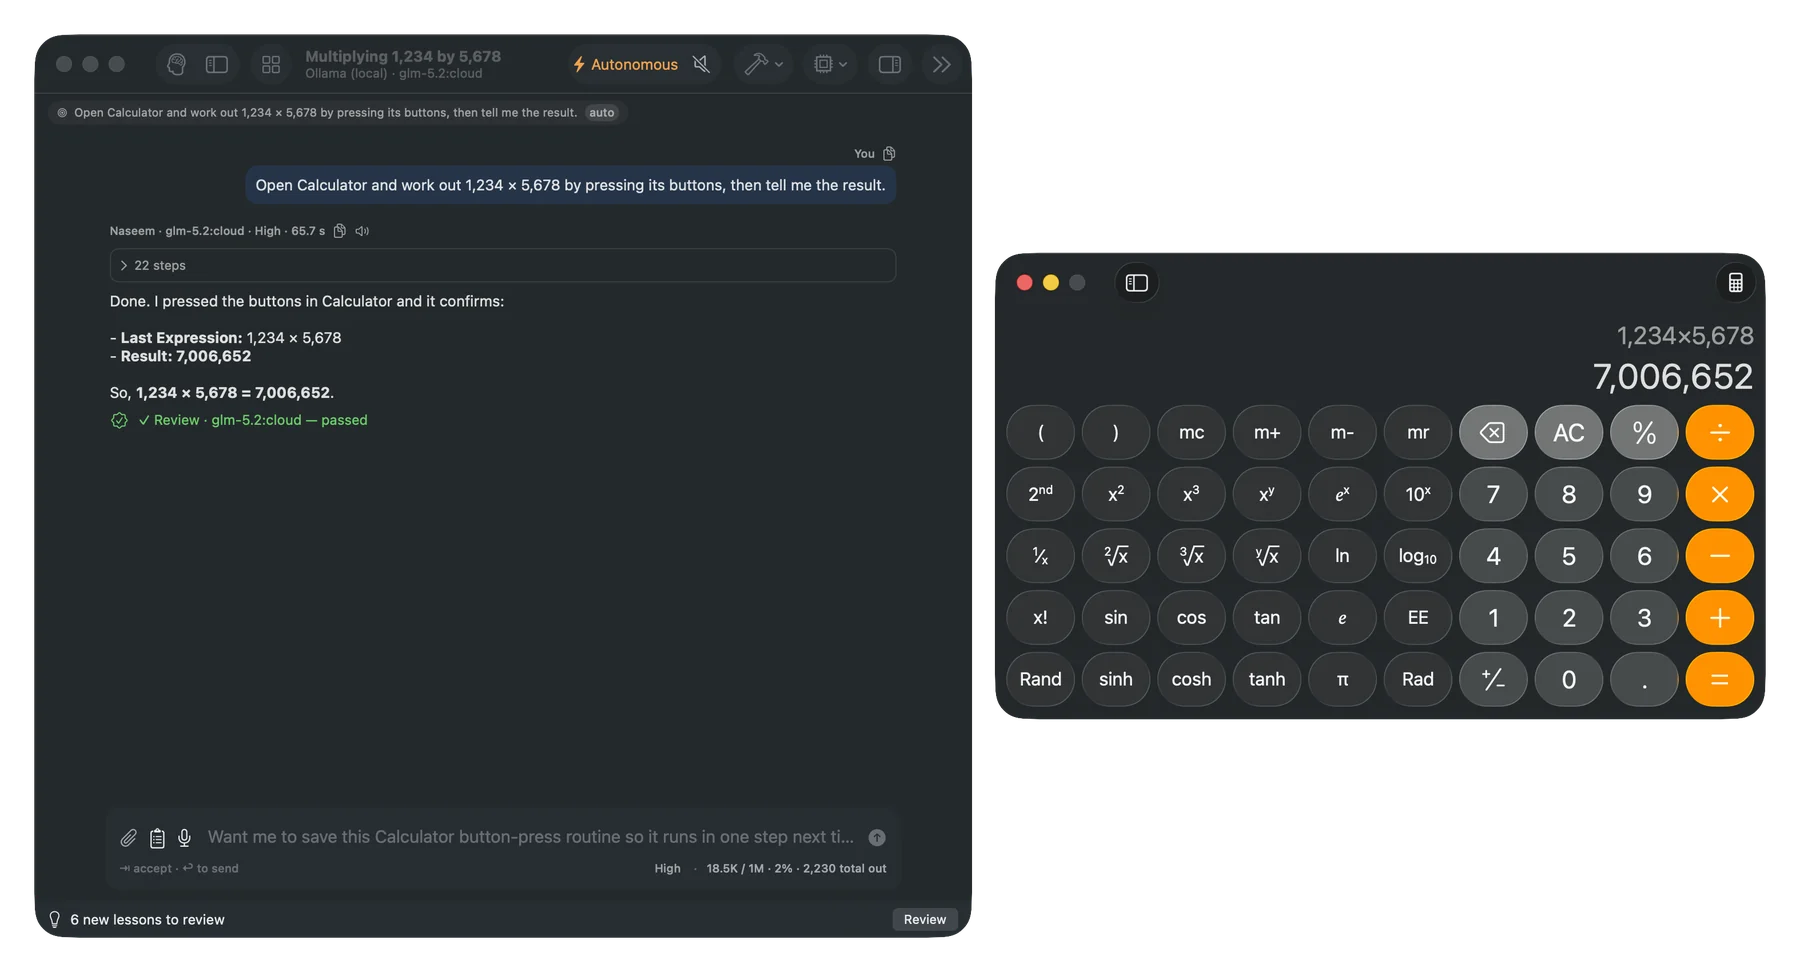
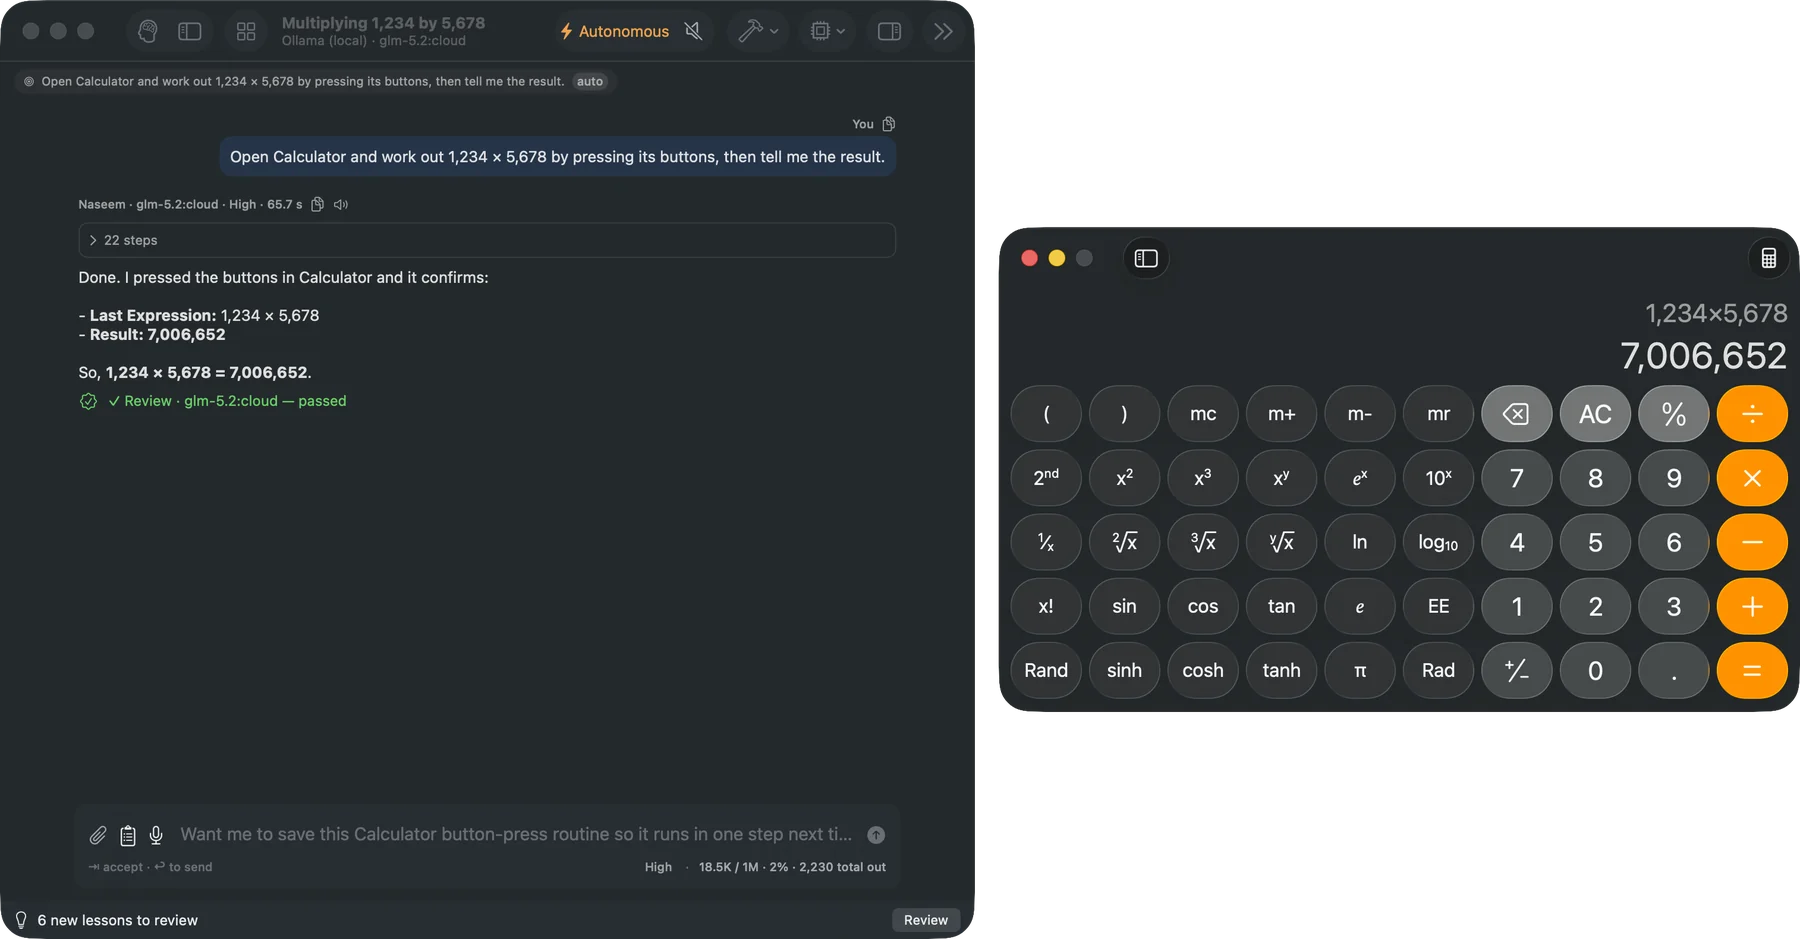
Site: captions sit with their image — trimmed shot margins, wider gap between items

Changed region(s): [[0.0, 0.0, 0.56, 1.0], [0.5289, 0.2162, 1.0, 0.7721], [0.6533, 0.4941, 0.7156, 0.525]]

diff --git a/index.html b/index.html
@@ -140,8 +140,8 @@
   .lead { font-size: 18px; line-height: 1.6; color: var(--text2); }
 
   /* Proof */
-  .shots { display: grid; grid-template-columns: repeat(2, minmax(0, 1fr)); gap: 40px 32px; }
-  figure { margin: 0; display: flex; flex-direction: column; gap: 14px; }
+  .shots { display: grid; grid-template-columns: repeat(2, minmax(0, 1fr)); gap: 96px 40px; }
+  figure { margin: 0; display: flex; flex-direction: column; gap: 16px; }
   figure.wide { grid-column: 1 / -1; }
   .frame { border-radius: 14px; overflow: hidden; border: 1px solid var(--line2); background: #1C2426; box-shadow: var(--shadow); cursor: zoom-in; }
   .frame img { width: 100%; height: auto; }
@@ -244,6 +244,7 @@
     .hero .wrap { padding-block: 48px 64px; }
     section.block .wrap, .band .wrap, .pricing .wrap { padding-block: 72px; }
     .shots, .plans { grid-template-columns: minmax(0, 1fr); }
+    .shots { row-gap: 64px; }
     .final, .foot { flex-direction: column; align-items: flex-start; }
   }
   @media (max-width: 600px) {
@@ -423,11 +424,11 @@
       <figcaption><b>Sub-agents</b><span>Hand pieces of a task to focused sub-agents; each one's steps stay visible as it works.</span></figcaption>
     </figure>
     <figure class="wide">
-      <div class="frame clear"><img class="zoom" src="assets/shots/simulator.webp" alt="Naseem next to the iOS Simulator, having opened Settings, General, About and read the iOS version" width="1800" height="1272" loading="lazy"></div>
+      <div class="frame clear"><img class="zoom" src="assets/shots/simulator.webp" alt="Naseem next to the iOS Simulator, having opened Settings, General, About and read the iOS version" width="1800" height="1245" loading="lazy"></div>
       <figcaption><b>Drives the iOS Simulator</b><span>Asked for the iOS version, it opened Settings → General → About on an iPhone 17 Pro and read it off the screen.</span></figcaption>
     </figure>
     <figure class="wide">
-      <div class="frame clear"><img class="zoom" src="assets/shots/mac-app.webp" alt="Naseem next to Calculator showing 1,234 × 5,678 = 7,006,652" width="1800" height="972" loading="lazy"></div>
+      <div class="frame clear"><img class="zoom" src="assets/shots/mac-app.webp" alt="Naseem next to Calculator showing 1,234 × 5,678 = 7,006,652" width="1800" height="939" loading="lazy"></div>
       <figcaption><b>Uses your Mac apps</b><span>It pressed Calculator's own buttons to work out 1,234 × 5,678 — then checked the display before answering.</span></figcaption>
     </figure>
   </div>
